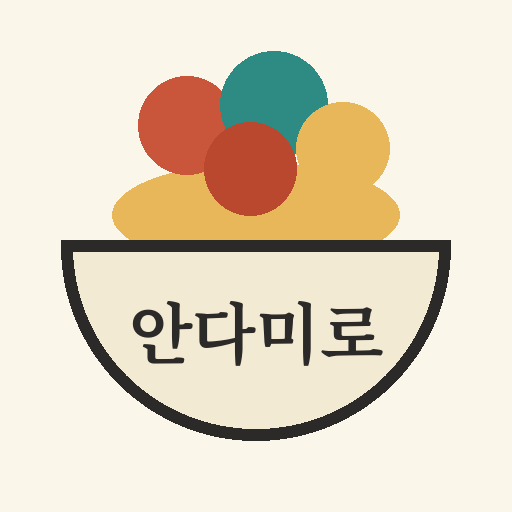
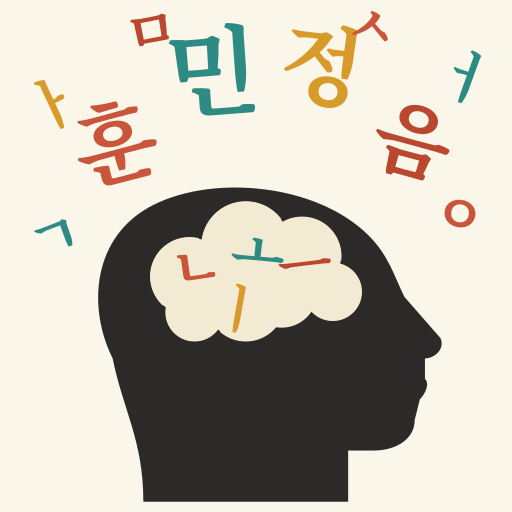
아이콘·메인 이미지를 훈민정음이 넘쳐나는 머리 그림으로 교체
Claude-Session: https://claude.ai/code/session_01BWXrJBAD2Cdvj5yyg7oiC3

diff --git a/index.html b/index.html
@@ -38,7 +38,7 @@ button{font:inherit;color:inherit;background:none;border:0;cursor:pointer;text-a
 
 /* home */
 .hero{text-align:center;padding:26px 0 22px}
-.bowl{width:84px;height:84px;margin:0 auto 6px}
+.bowl{display:block;width:168px;height:168px;margin:0 auto 2px;object-fit:contain}
 .hero h1{font-family:var(--serif);font-size:54px;letter-spacing:.04em;font-weight:700;line-height:1.1}
 .hero .hanja-line{font-size:13px;color:var(--mute);margin-top:8px}
 .hero .def{font-family:var(--serif);font-size:16px;margin-top:14px;color:#4a463e}
@@ -193,10 +193,6 @@ const allLeaves = Object.values(leafIndex);
 const doneCount = a => a.filter(i=>i.status==='done').length;
 const esc = s => String(s).replace(/[&<>"]/g,c=>({'&':'&amp;','<':'&lt;','>':'&gt;','"':'&quot;'}[c]));
 
-const BOWL = `<svg class="bowl" viewBox="0 0 100 100" aria-hidden="true">
-  <ellipse cx="50" cy="40" rx="30" ry="9" fill="#E7B75A"/><circle cx="38" cy="34" r="9" fill="#C9553A"/><circle cx="54" cy="31" r="10" fill="#2E8B83"/><circle cx="66" cy="38" r="8" fill="#E7B75A"/><circle cx="48" cy="40" r="8" fill="#B9482F" opacity=".9"/>
-  <path d="M16 44h68c0 22-14 38-34 38S16 66 16 44z" fill="#F3EAD3" stroke="#2B2A28" stroke-width="3"/>
-  <path d="M38 88h24" stroke="#2B2A28" stroke-width="3" stroke-linecap="round"/></svg>`;
 
 function bar(backTo, top, bottom){
   return `<div class="bar"><button class="back" data-go="${backTo}" aria-label="뒤로">‹</button><div class="crumb">${esc(top)}<b>${esc(bottom)}</b></div></div>`;
@@ -205,7 +201,7 @@ function bar(backTo, top, bottom){
 /* ---------- 화면 ---------- */
 function viewHome(){
   return `<div class="screen">
-    <div class="hero">${BOWL}<h1>안다미로</h1>
+    <div class="hero"><img class="bowl" src="icons/hero.png" alt="훈민정음 글자가 머릿속에서 넘쳐 나오는 모습"><h1>안다미로</h1>
       <div class="hanja-line">속담 · 순우리말 배움터</div>
       <div class="def"><b>안다미로</b> : 담은 것이 넘칠 듯이 가득한 모양</div></div>
     <div class="mains">

diff --git a/sw.js b/sw.js
@@ -1,5 +1,5 @@
-const CACHE = 'andamiro-v1';
-const CORE = ['./', './index.html', './manifest.webmanifest', './icons/icon-192.png', './icons/icon-512.png'];
+const CACHE = 'andamiro-v2';
+const CORE = ['./', './index.html', './manifest.webmanifest', './icons/icon-192.png', './icons/icon-512.png', './icons/hero.png'];
 self.addEventListener('install', e => {
   e.waitUntil(caches.open(CACHE).then(c => c.addAll(CORE)).then(() => self.skipWaiting()));
 });
